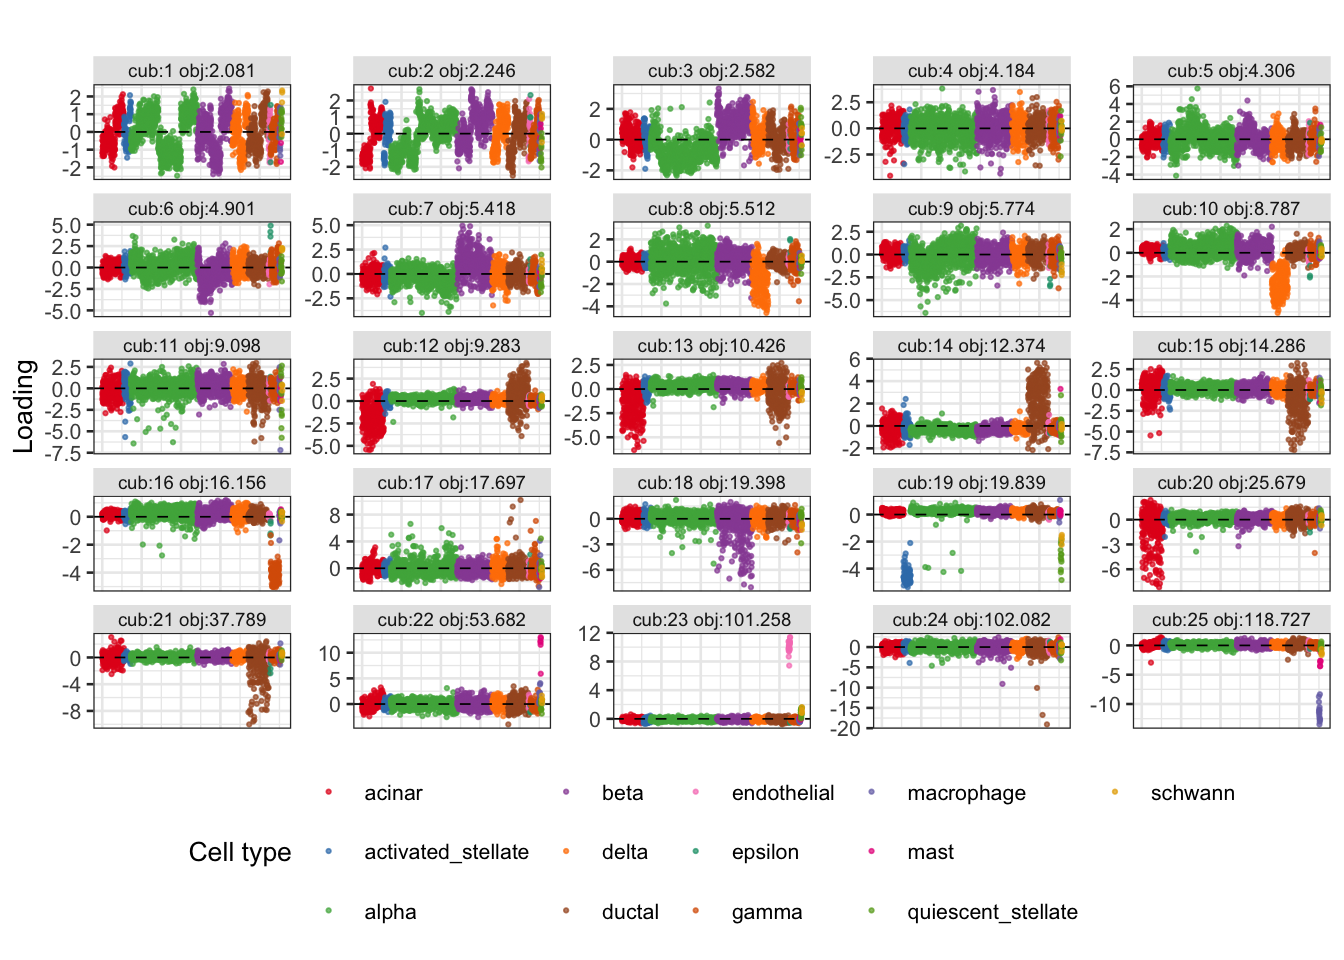
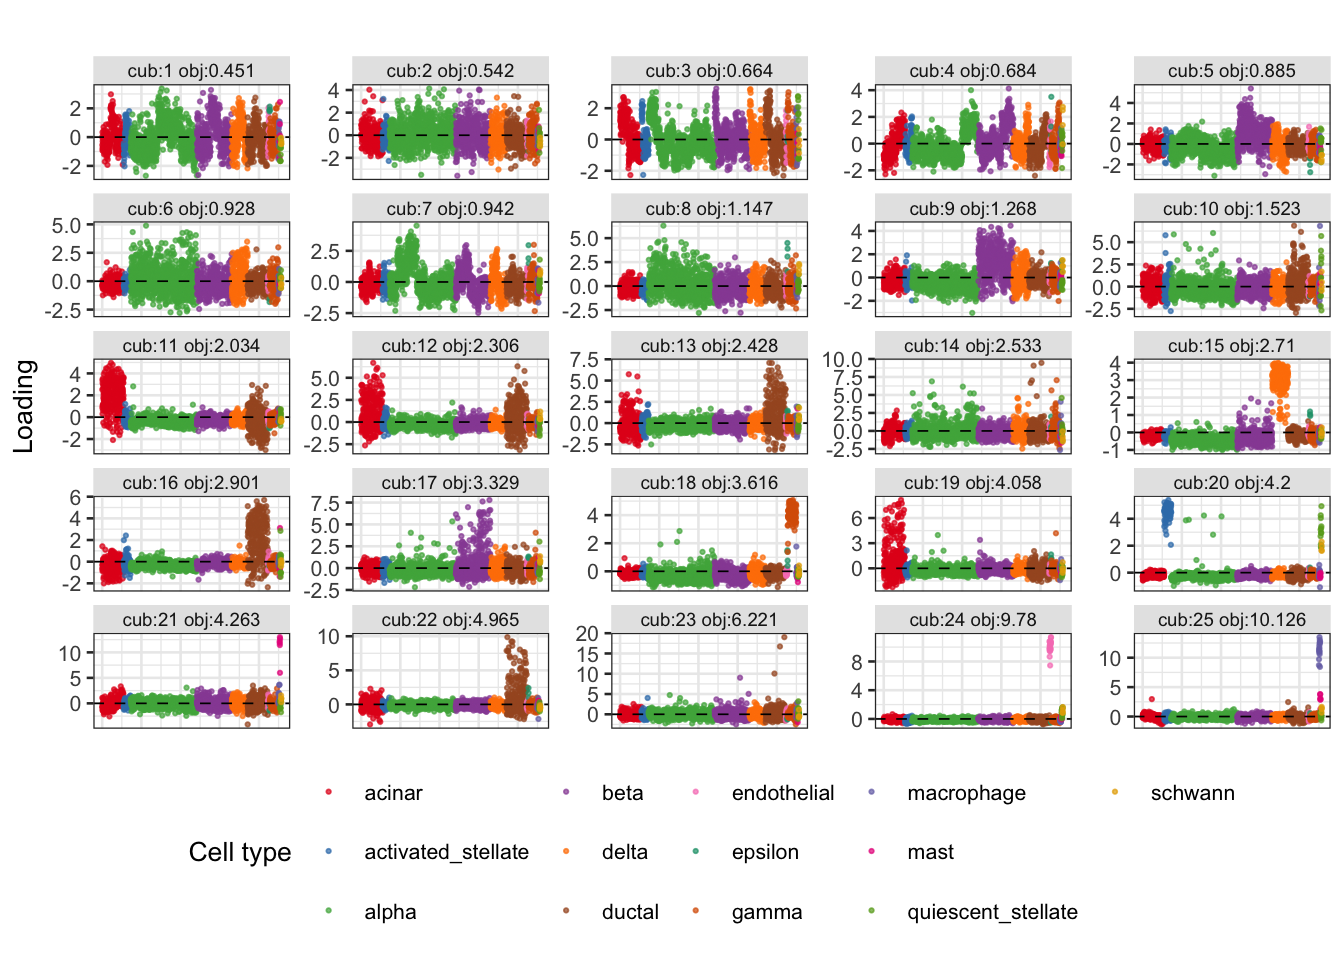
Build site.

Changed region(s): [[0.0312, 0.0625, 1.0, 0.7812]]

diff --git a/docs/pancreas_celseq2_ica_02.html b/docs/pancreas_celseq2_ica_02.html
@@ -465,16 +465,16 @@ This reproducible <a href="https://rmarkdown.rstudio.com">R Markdown</a> analysi
 <div class="panel panel-default">
 <div class="panel-heading">
 <p class="panel-title">
-<a data-toggle="collapse" data-parent="#workflowr-checks" href="#strongRepositoryversionstrongahrefhttpsgithubcomstephenslabsinglecelljamboreetree46100371de5296be0116a200f9e0723b4677a32atargetblank4610037a"> <span class="glyphicon glyphicon-ok text-success" aria-hidden="true"></span> <strong>Repository version:</strong> <a href="https://github.com/stephenslab/single-cell-jamboree/tree/46100371de5296be0116a200f9e0723b4677a32a" target="_blank">4610037</a> </a>
+<a data-toggle="collapse" data-parent="#workflowr-checks" href="#strongRepositoryversionstrongahrefhttpsgithubcomstephenslabsinglecelljamboreetreed3dbf5b36f5cd19cecd2016fb3316bcdf9b2523ftargetblankd3dbf5ba"> <span class="glyphicon glyphicon-ok text-success" aria-hidden="true"></span> <strong>Repository version:</strong> <a href="https://github.com/stephenslab/single-cell-jamboree/tree/d3dbf5b36f5cd19cecd2016fb3316bcdf9b2523f" target="_blank">d3dbf5b</a> </a>
 </p>
 </div>
[2 lines of base64/hex data omitted]
 <div class="panel-body">
 <p>
 Great! You are using Git for version control. Tracking code development and connecting the code version to the results is critical for reproducibility.
 </p>
 <p>
-The results in this page were generated with repository version <a href="https://github.com/stephenslab/single-cell-jamboree/tree/46100371de5296be0116a200f9e0723b4677a32a" target="_blank">4610037</a>. See the <em>Past versions</em> tab to see a history of the changes made to the R Markdown and HTML files.
+The results in this page were generated with repository version <a href="https://github.com/stephenslab/single-cell-jamboree/tree/d3dbf5b36f5cd19cecd2016fb3316bcdf9b2523f" target="_blank">d3dbf5b</a>. See the <em>Past versions</em> tab to see a history of the changes made to the R Markdown and HTML files.
 </p>
 <p>
 Note that you need to be careful to ensure that all relevant files for the analysis have been committed to Git prior to generating the results (you can use <code>wflow_publish</code> or <code>wflow_git_commit</code>). workflowr only checks the R Markdown file, but you know if there are other scripts or data files that it depends on. Below is the status of the Git repository when the results were generated:
@@ -542,6 +542,40 @@ Message
 Rmd
 </td>
 <td>
+<a href="https://github.com/stephenslab/single-cell-jamboree/blob/d3dbf5b36f5cd19cecd2016fb3316bcdf9b2523f/analysis/pancreas_celseq2_ica_02.Rmd" target="_blank">d3dbf5b</a>
+</td>
+<td>
+Matthew Stephens
+</td>
+<td>
+2026-09-16
+</td>
+<td>
+Fix cubic contrast: G(x)=x^3 so g=3x^2, g prime=6x
+</td>
+</tr>
+<tr>
+<td>
+html
+</td>
+<td>
+<a href="https://rawcdn.githack.com/stephenslab/single-cell-jamboree/3d4592ef6fe554cf90a5cac8251e528211725026/docs/pancreas_celseq2_ica_02.html" target="_blank">3d4592e</a>
+</td>
+<td>
+Matthew Stephens
+</td>
+<td>
+2026-09-16
+</td>
+<td>
+Build site.
+</td>
+</tr>
+<tr>
+<td>
+Rmd
+</td>
+<td>
 <a href="https://github.com/stephenslab/single-cell-jamboree/blob/46100371de5296be0116a200f9e0723b4677a32a/analysis/pancreas_celseq2_ica_02.Rmd" target="_blank">4610037</a>
 </td>
 <td>
@@ -601,7 +635,7 @@ Add pancreas_celseq2_ica_02: rank-r ICA with cubic, logPhi, x|x|
 <ul>
 <li>Data are <strong>centred</strong> (column means subtracted) before whitening, as is standard for ICA.</li>
 <li>We run <strong>rank-<span class="math inline">\(r\)</span> (symmetric) fastICA with <span class="math inline">\(r = 25\)</span></strong> rather than many rank-1 starts, which is faster and avoids the post-hoc deduplication step.</li>
-<li>We compare three contrast functions chosen to favour one-sided/sparse sources: <span class="math inline">\(x^3\)</span> (kurtosis/skewness), <span class="math inline">\(\log\Phi(\alpha x)\)</span> (log-normal CDF), and <span class="math inline">\(x|x|\)</span> (the tilting term of TLC without the log-cosh).</li>
+<li>We compare three contrast functions chosen to favour one-sided/sparse sources: <span class="math inline">\(G(x) = x^3\)</span> (skewness), <span class="math inline">\(G(x) = \log\Phi(\alpha x)\)</span> (log-normal CDF), and <span class="math inline">\(G(x) = x|x|\)</span> (the tilting term of TLC without the log-cosh).</li>
 </ul>
 <pre class="r"><code>library(fastICA)
 library(Matrix)
@@ -719,16 +753,16 @@ plot_loadings_matrix &lt;- function(Lhat, label_prefix = &quot;c:&quot;, si = sa
 </div>
 <div id="contrast-functions" class="section level2">
 <h2>Contrast functions</h2>
-<pre class="r"><code># --- x^3 (kurtosis/skewness) ---
-# g(x) = x^3,  g&#39;(x) = 3x^2,  G(x) = x^4/4
+<pre class="r"><code># --- G(x) = x^3 (skewness) ---
+# g(x) = G&#39;(x) = 3x^2,  g&#39;(x) = G&#39;&#39;(x) = 6x
 fastica_update_cubic_rankr &lt;- function(U, W) {
   P  &lt;- t(U) %*% W
-  G  &lt;- P^3
-  G2 &lt;- 3 * P^2
+  G  &lt;- 3 * P^2
+  G2 &lt;- 6 * P
   W  &lt;- U %*% G - sweep(W, 2, colSums(G2), &quot;*&quot;)
   polar(W)
 }
-objective_cubic &lt;- function(L) colMeans(L^4)
+objective_cubic &lt;- function(L) colMeans(L^3)
 
 # --- log-Phi ---
 # G(x) = log Phi(alpha*x),  g = alpha*h,  g&#39; = alpha^2*(-alpha*x*h - h^2)
@@ -790,6 +824,17 @@ Date
 <tbody>
 <tr>
 <td>
+<a href="https://github.com/stephenslab/single-cell-jamboree/blob/3d4592ef6fe554cf90a5cac8251e528211725026/docs/figure/pancreas_celseq2_ica_02.Rmd/ica-cubic-1.png" target="_blank">3d4592e</a>
+</td>
+<td>
+Matthew Stephens
+</td>
+<td>
+2026-09-16
+</td>
+</tr>
+<tr>
+<td>
 <a href="https://github.com/stephenslab/single-cell-jamboree/blob/e748825caa62c5a1cc02333ced41ee9688a74115/docs/figure/pancreas_celseq2_ica_02.Rmd/ica-cubic-1.png" target="_blank">e748825</a>
 </td>
 <td>
@@ -840,6 +885,17 @@ Date
 <tbody>
 <tr>
 <td>
+<a href="https://github.com/stephenslab/single-cell-jamboree/blob/3d4592ef6fe554cf90a5cac8251e528211725026/docs/figure/pancreas_celseq2_ica_02.Rmd/ica-logphi-1.png" target="_blank">3d4592e</a>
+</td>
+<td>
+Matthew Stephens
+</td>
+<td>
+2026-09-16
+</td>
+</tr>
+<tr>
+<td>
 <a href="https://github.com/stephenslab/single-cell-jamboree/blob/e748825caa62c5a1cc02333ced41ee9688a74115/docs/figure/pancreas_celseq2_ica_02.Rmd/ica-logphi-1.png" target="_blank">e748825</a>
 </td>
 <td>
@@ -888,6 +944,17 @@ Date
 </tr>
 </thead>
 <tbody>
+<tr>
+<td>
+<a href="https://github.com/stephenslab/single-cell-jamboree/blob/3d4592ef6fe554cf90a5cac8251e528211725026/docs/figure/pancreas_celseq2_ica_02.Rmd/ica-skew-1.png" target="_blank">3d4592e</a>
+</td>
+<td>
+Matthew Stephens
+</td>
+<td>
+2026-09-16
+</td>
+</tr>
 <tr>
 <td>
 <a href="https://github.com/stephenslab/single-cell-jamboree/blob/e748825caa62c5a1cc02333ced41ee9688a74115/docs/figure/pancreas_celseq2_ica_02.Rmd/ica-skew-1.png" target="_blank">e748825</a>
